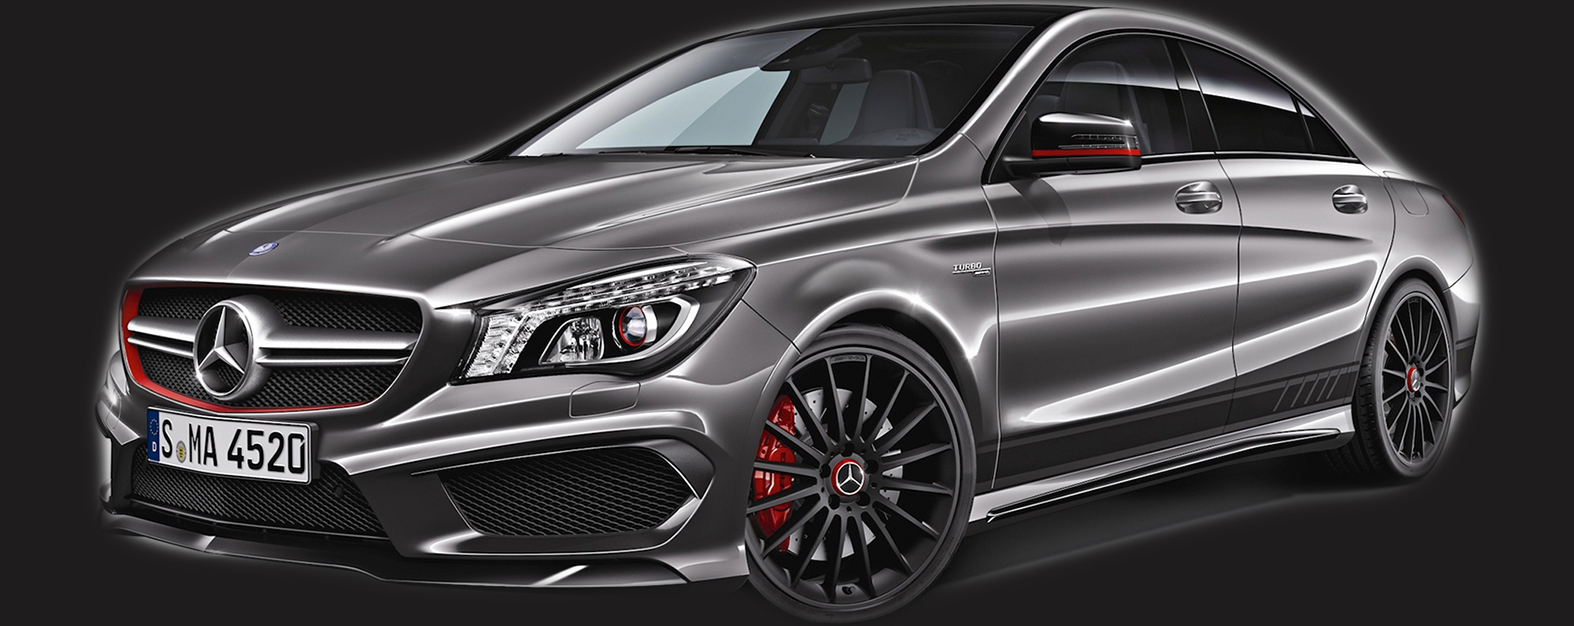
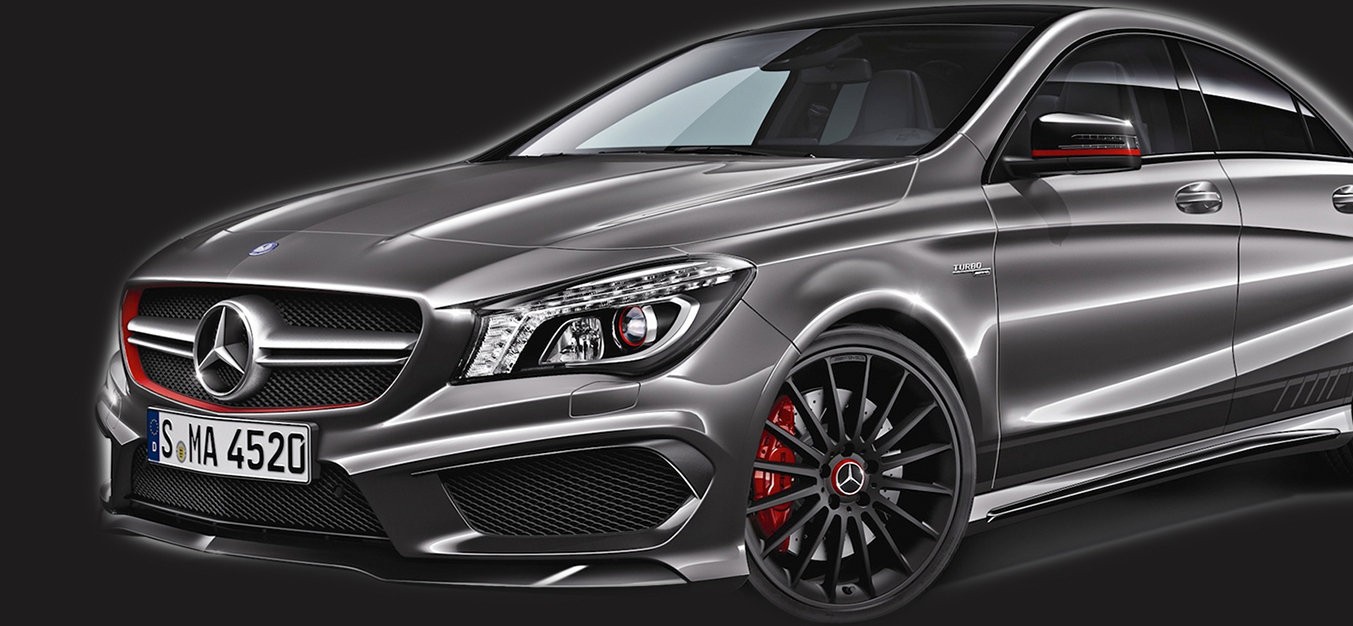
Modifications Mineures (Correction bug affichage header)

diff --git a/Site-web/style.css b/Site-web/style.css
@@ -151,11 +151,10 @@ header #search .feedback-input:hover{
 }
 
 header img{
-	width: 70%;
+	width: 58%;
 	height: 350px;
 	padding-top: 80px;
 	float: right;
-	margin-right: -150px;
 }
 
 #section1{
